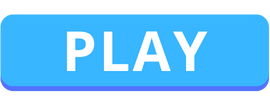
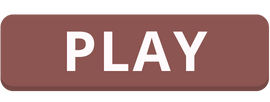
Added background & changed some colors

diff --git a/src/scenes/titleScene.ts b/src/scenes/titleScene.ts
@@ -1,23 +1,33 @@
 import Phaser from "phaser";
 
 export default class TitleScene extends Phaser.Scene {
-
     constructor() {
         super({ key: "TitleScene" });
     }
 
     create() {
-        //Logo Image
-        this.add.image(this.cameras.main.displayWidth * (1/2), this.cameras.main.displayHeight * (2/5), 'title_logo');
+        //Background & Logo Image
+        this.add.image(
+            this.cameras.main.displayWidth * 0.5,
+            this.cameras.main.displayHeight * 0.5,
+            "title_bg"
+        );
+        this.add.image(
+            this.cameras.main.displayWidth * (1 / 2),
+            this.cameras.main.displayHeight * (1.2 / 4),
+            "title_logo"
+        );
 
         //Play Button
-        const play_btn = this.add.image(this.cameras.main.width * (1/2), 610, 'play_btn');
+        const play_btn = this.add.image(
+            this.cameras.main.width * (1 / 2),
+            550,
+            "play_btn"
+        );
         play_btn
             .setInteractive()
             //.on('pointerdown', () => this.scene.start("Game_1"))
-            .on('pointerover', () => play_btn.setScale(1.1))
-            .on('pointerout', () => play_btn.setScale(1));
+            .on("pointerover", () => play_btn.setScale(1.1))
+            .on("pointerout", () => play_btn.setScale(1));
     }
-
-    
 }

diff --git a/src/scenes/preloadScene.ts b/src/scenes/preloadScene.ts
@@ -6,19 +6,18 @@ export default class PreloadScene extends Phaser.Scene {
     }
 
     preload() {
-        //Logo Image
-        this.load.svg({
-            key: 'title_logo',
-            url: 'assets/img/schedulsine_logo.svg',
-            svgConfig: {
-                scale: 1.5
-            }
-        });
-
-        //Play Button
+        //Logo, Play Button, and Background Assets
         this.load.image({
-            key: 'play_btn',
-            url: 'assets/img/play_button.png'
+            key: "title_logo",
+            url: "assets/img/schedulsine_logo.png",
+        });
+        this.load.image({
+            key: "play_btn",
+            url: "assets/img/play_button.png",
+        });
+        this.load.image({
+            key: "title_bg",
+            url: "assets/img/title_bg.png",
         });
     }
 
